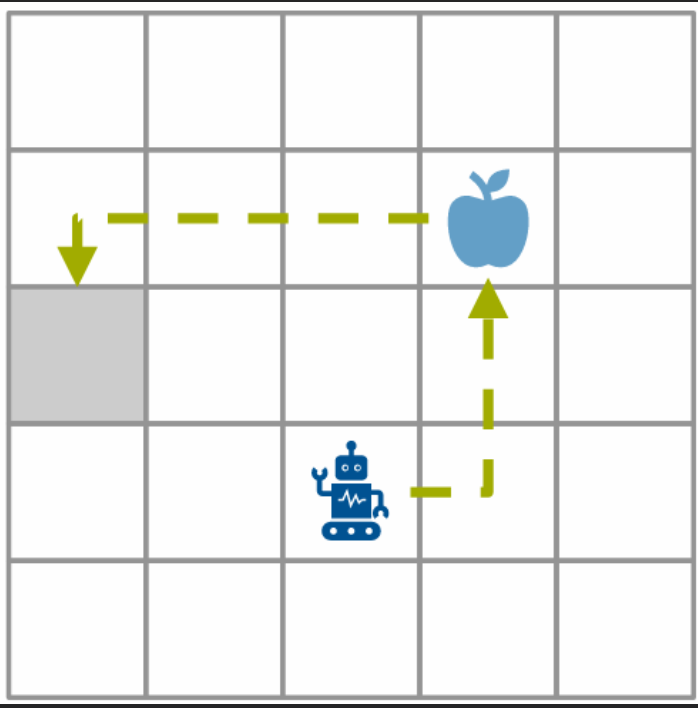
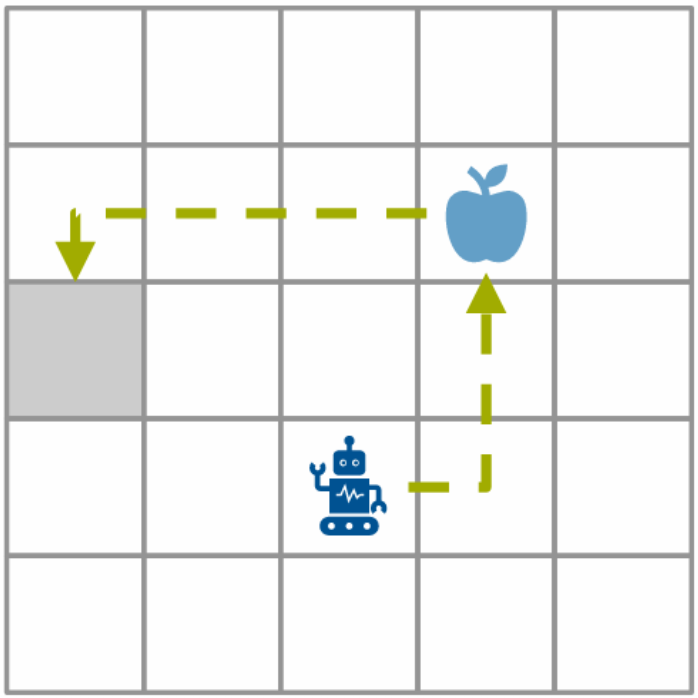
update

Changed region(s): [[0.0, 0.0, 1.0, 1.0], [0.0602, 0.3009, 0.1504, 0.4212], [0.4513, 0.2708, 0.5115, 0.3309]]

diff --git a/README.md b/README.md
@@ -5,8 +5,8 @@
 This project evaluates Deep Q-Network (DQN), Proximal Policy Optimization (PPO), and Soft Actor-Critic (SAC) in a stochastic 5×5 grid-based pickup-and-delivery environment. The task involves collecting and delivering dynamically spawning items under time constraints, sparse rewards, and spatial restrictions across three environment variants. The repository includes feature-engineered state representations, reward shaping strategies, and tuned agent configurations to analyze performance, training stability, and generalization across increasingly complex settings.
 
 <p align="center">
-  <img src="pics/variant_0.png" width="45%" />
-  <img src="pics/variant_2.png" width="45%" />
+  <img src="pics/variant_0.png" width="40%" />
+  <img src="pics/variant_2.png" width="40%" />
 </p>
 
 ### Key Features
